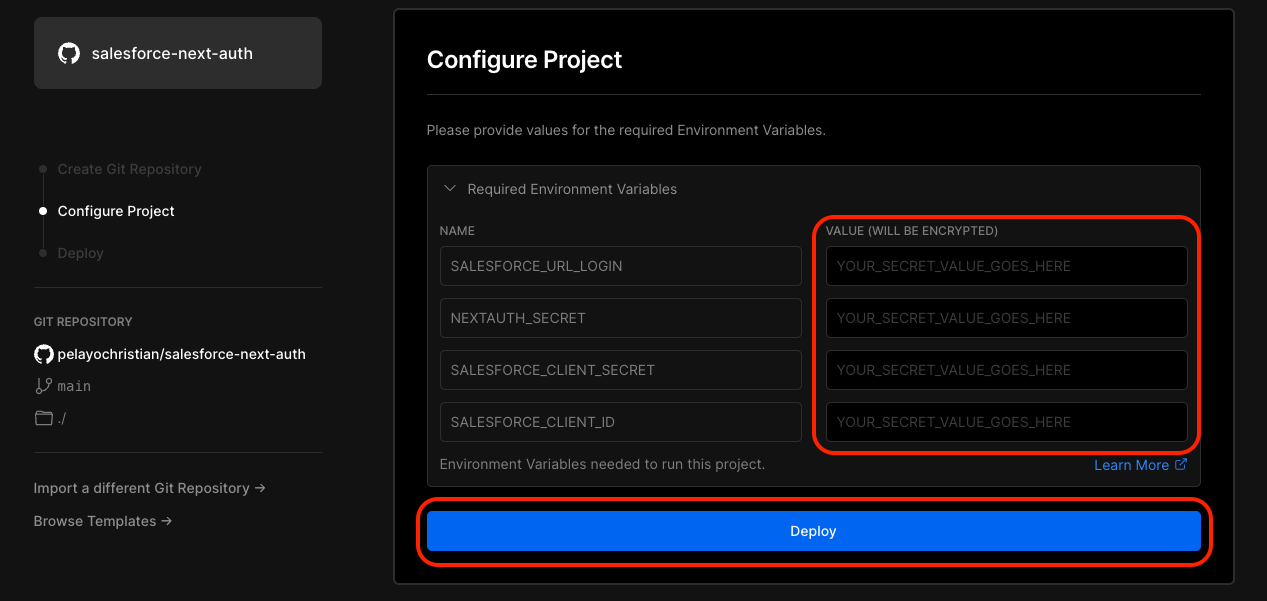
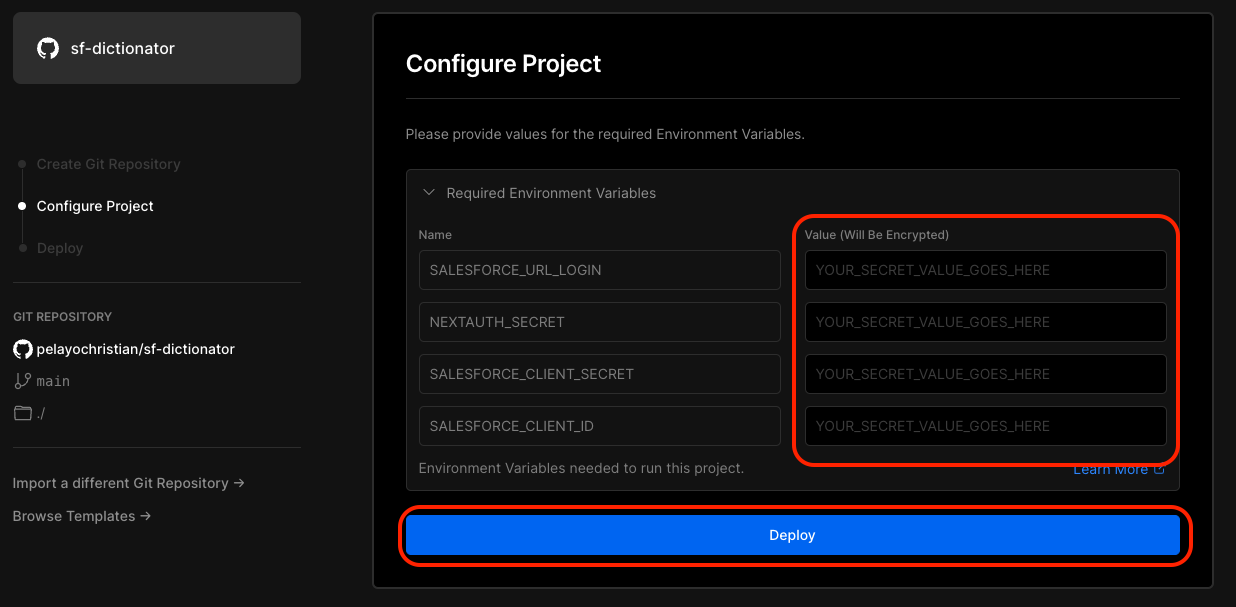
update doc for deployment

diff --git a/README.md b/README.md
@@ -18,7 +18,7 @@ A Web-Based tool for generating Salesforce Data Dictionary supported with Oath2 
 
 Using the Vercel Deploy Button, you can quickly deploy this project into your own Vercel Account.
 
-[![Deploy with Vercel](https://vercel.com/button)](https://vercel.com/new/clone?repository-url=https%3A%2F%2Fgithub.com%2Fpelayochristian%2Fsalesforce-next-auth&env=SALESFORCE_URL_LOGIN,NEXTAUTH_SECRET,SALESFORCE_CLIENT_SECRET,SALESFORCE_CLIENT_ID&envDescription=Environment%20Variables%20needed%20to%20run%20this%20project.&envLink=https%3A%2F%2Fgithub.com%2Fpelayochristian%2Fsalesforce-next-auth%23environment-variables&project-name=salesforce-next-auth&repo-name=salesforce-next-auth)
+[![Deploy with Vercel](https://vercel.com/button)](https://vercel.com/new/clone?repository-url=https%3A%2F%2Fgithub.com%2Fpelayochristian%2Fsf-dictionator&env=SALESFORCE_URL_LOGIN,NEXTAUTH_SECRET,SALESFORCE_CLIENT_SECRET,SALESFORCE_CLIENT_ID&envDescription=Environment%20Variables%20needed%20to%20run%20this%20project.&envLink=https%3A%2F%2Fgithub.com%2Fpelayochristian%2Fsf-dictionator%23environment-variables&project-name=sf-dictionator&repo-name=sf-dictionator)
 
 After clicking the Deploy button above, it will redirect to your Vercel Account, you'll see similar to the following screen shot bellow.
 
@@ -54,7 +54,7 @@ After clicking the Deploy button above, it will redirect to your Vercel Account,
 9. Go back to the **Connected Apps** list, and click the App that you just created.
 10. Go to **API (Enable OAuth Settings)**, and note down the **Consumer Key** and **Consumer Secret**, which will be used for the configuration of **[Environment Variables](https://github.com/pelayochristian/sf-dictionator#environment-variables)**.
 
-### Environment Variables
+## 🧑💻 Environment Variables
 
 For local installation, create `.env.local` in root folder of the project.
 
@@ -69,4 +69,36 @@ NEXTAUTH_SECRET=YOUR_NEXTAUTH_SECRET
 
 To generate NextAuth Secret you can use this app: https://generate-secret.vercel.app/32
 
+## 🛑 Security
+
+### How is your token being used or stored?
+
+On this tool, your token is not stored in any databases. With the use of Next-Auth after the Salesforce Authenticate the user, using JWT provided by the Next-Auth only the token is used, and the session with a maximum TTL of 2 hours.
+
+### How can we keep the user still log in after 2 hours straight with active session?
+
+By using [Refresh Rotation Strategy](https://next-auth.js.org/tutorials/refresh-token-rotation) and refresh the token with a 15 minutes buffer time before the expiration of the token.
+
 ## ⚡ Local Machine Installation
+
+Before firing up the project make sure you already set your **[Environment Variables](https://github.com/pelayochristian/sf-dictionator#environment-variables)**.
+
+```
+git clone https://github.com/pelayochristian/sf-dictionator.git
+cd sf-dictionator
+npm install
+```
+
+### For Development, run the below command.
+
+```
+npm run dev
+```
+
+### For running the Production Ready package, run the below command.
+
+```
+npm run build && npm run start
+```
+
+Open http://localhost:3000 with your browser to see the result.
